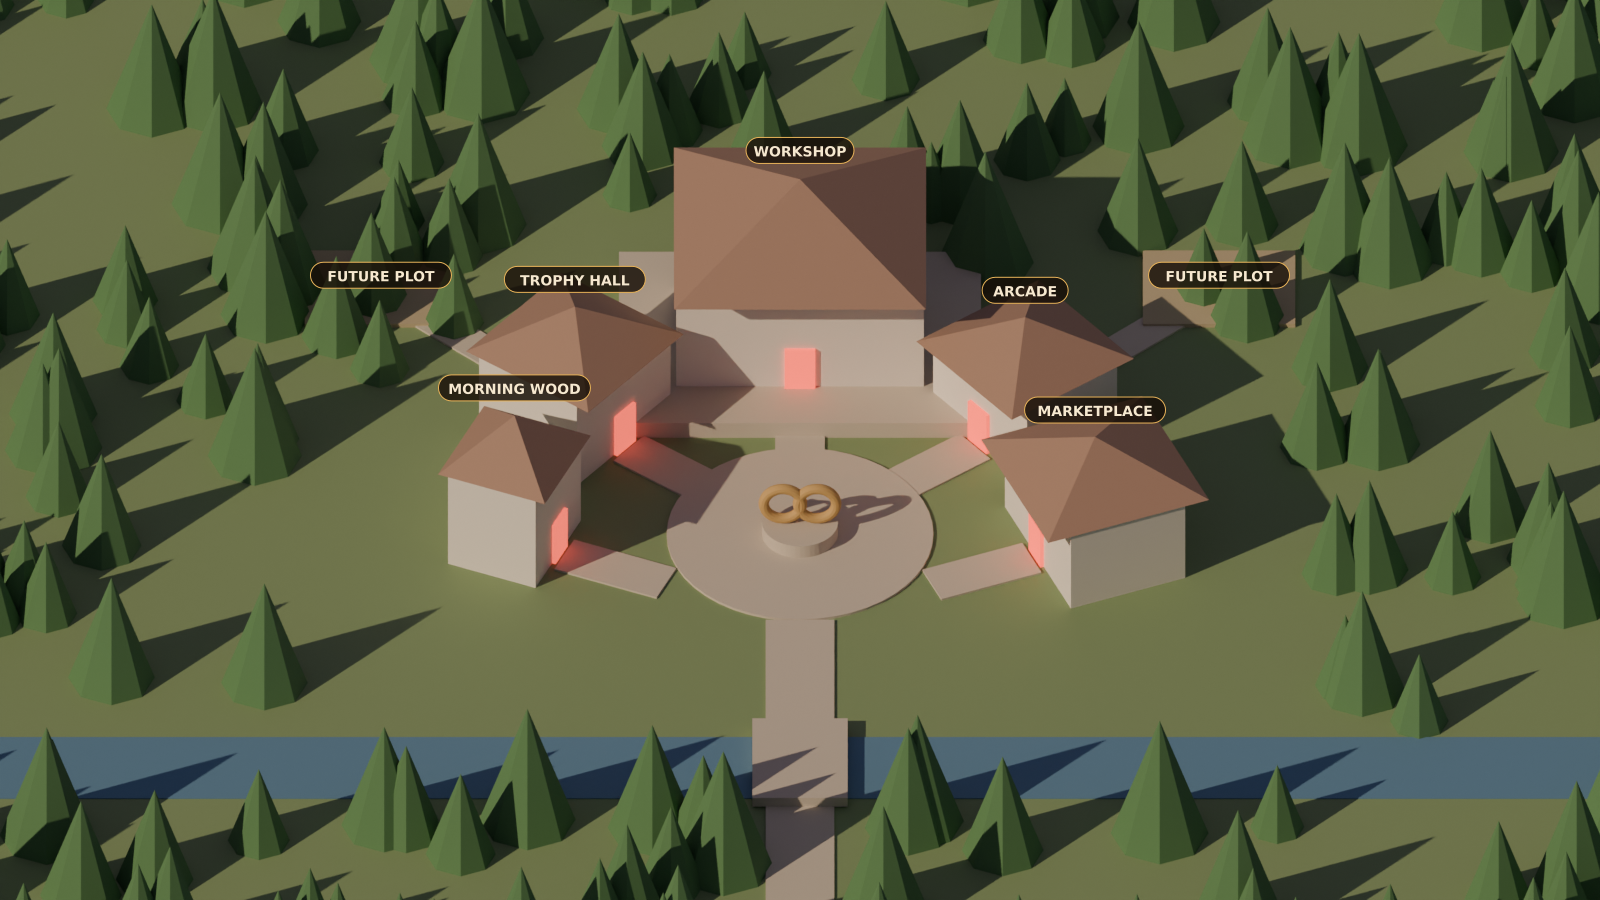
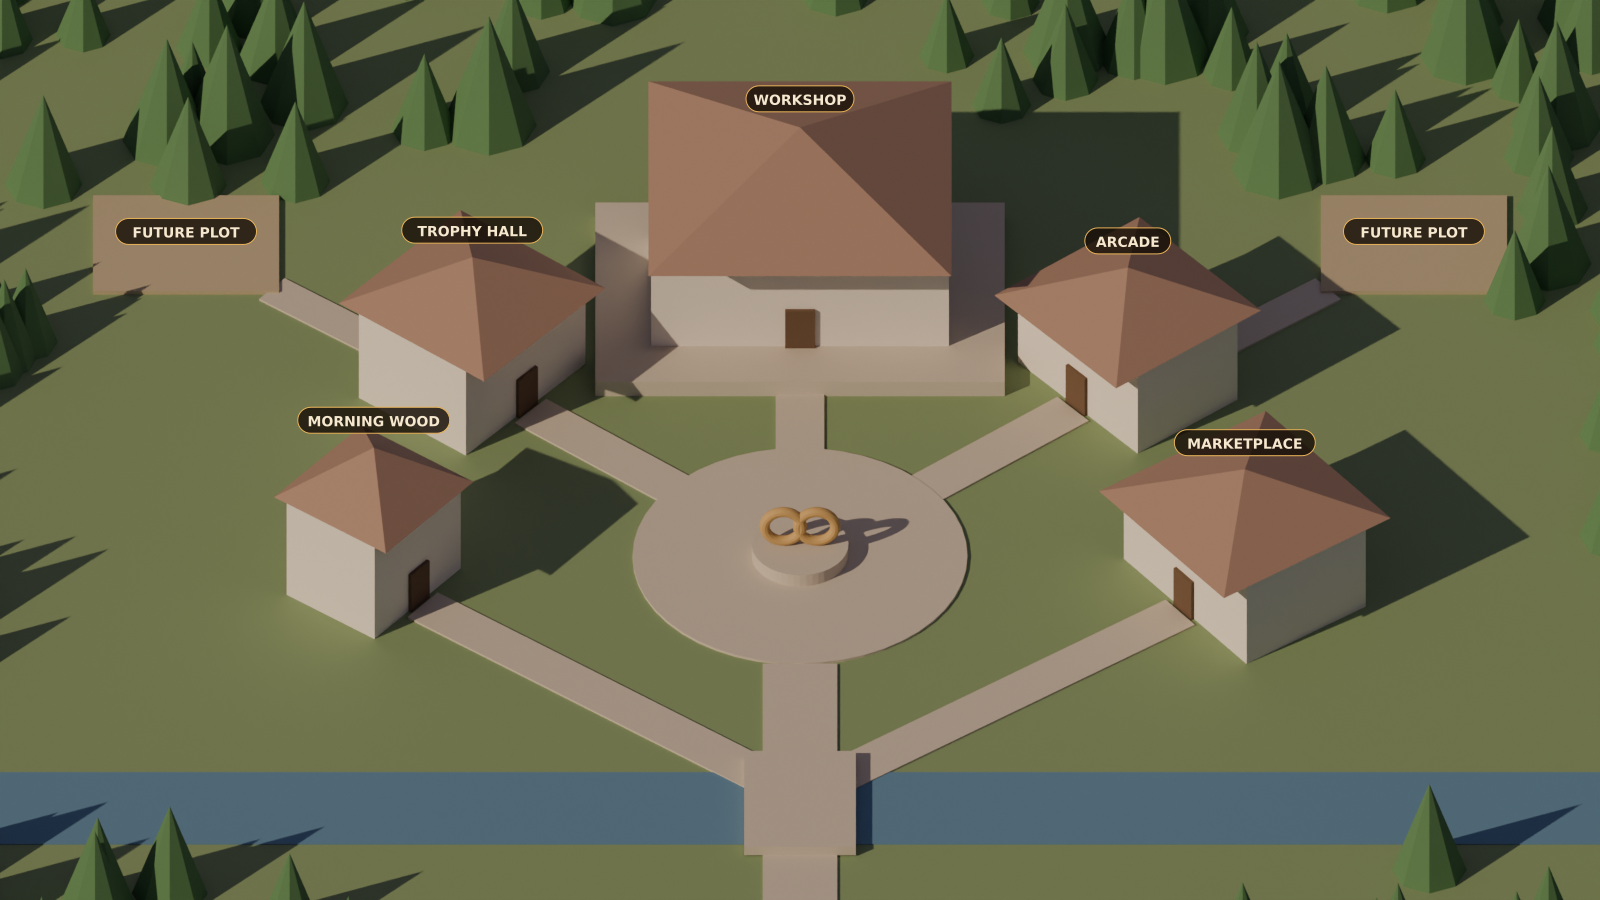
Village: approved layout (buildings fill the screen, river and bridge at the bottom), guide renders for the style frame
Claude-Session: https://claude.ai/code/session_01LEzX9WUx8sWcSwwRyLeaEz

diff --git a/web/art/factory/village/blockout/village.py b/web/art/factory/village/blockout/village.py
@@ -10,7 +10,7 @@ def mat(name, rgb, emit=0.0):
     if emit: b.inputs['Emission Color'].default_value = (*rgb, 1); b.inputs['Emission Strength'].default_value = emit
     return m
 M = dict(ground=mat('ground', (0.20, 0.30, 0.14)), stone=mat('stone', (0.55, 0.50, 0.42)), bldg=mat('bldg', (0.78, 0.74, 0.68)),
-         roof=mat('roof', (0.35, 0.22, 0.16)), door=mat('door', (0.9, 0.08, 0.05), 2.0), water=mat('water', (0.10, 0.22, 0.35)),
+         roof=mat('roof', (0.35, 0.22, 0.16)), door=mat('door', (0.9, 0.08, 0.05), 2.0) if '--red' in sys.argv else mat('door', (0.12, 0.07, 0.04)), water=mat('water', (0.10, 0.22, 0.35)),
          tree=mat('tree', (0.08, 0.20, 0.08)), plot=mat('plot', (0.45, 0.38, 0.25)), bronze=mat('bronze', (0.55, 0.35, 0.12)), text=mat('text', (1, 0.95, 0.8), 3.0))
 def put(o, m): o.data.materials.append(m); return o
 def box(x, y, z, sx, sy, sz, m, rot=0):
@@ -23,8 +23,8 @@ def label(t, x, y, z, size=1.4):
 
 # ground, plaza, sculpture
 box(0, 0, -0.2, 220, 220, 0.2, M['ground'])
-cyl(0, 0, 7, 0.15, M['stone'])
-cyl(0, 0, 2, 0.8, M['stone'], z=0.15)
+cyl(0, 0, 9, 0.15, M['stone'])
+cyl(0, 0, 2.6, 0.8, M['stone'], z=0.15)
 bpy.ops.mesh.primitive_torus_add(major_radius=1.0, minor_radius=0.28, location=(-0.9, 0, 2.2), rotation=(math.radians(90), 0, 0)); put(bpy.context.object, M['bronze'])
 bpy.ops.mesh.primitive_torus_add(major_radius=1.0, minor_radius=0.28, location=(0.9, 0, 2.2), rotation=(math.radians(90), 0, 0)); put(bpy.context.object, M['bronze'])
 
@@ -33,12 +33,12 @@ def path(a, b, w=2.6):
     box((a.x + b.x) / 2, (a.y + b.y) / 2, 0, w, d.length, 0.12, M['stone'], rot=math.atan2(d.y, d.x) - math.pi / 2)
 
 # buildings: (name, angle from +y around the plaza (deg), distance, width, depth, height); each turned to face the plaza
-B = [('WORKSHOP', 0, 15, 13, 8, 7.5), ('ARCADE', 52, 15, 8, 6, 5), ('TROPHY HALL', -52, 15, 8, 6.5, 5.5),
-     ('MARKETPLACE', 92, 15.5, 9, 6.5, 5), ('MORNING WOOD', -92, 15, 6, 5, 6)]
+B = [('WORKSHOP', 0, 21, 16, 9, 8), ('ARCADE', 50, 23, 10, 7, 5.5), ('TROPHY HALL', -50, 23, 10, 7.5, 6),
+     ('MARKETPLACE', 95, 24, 11, 8, 5.5), ('MORNING WOOD', -95, 23, 7.5, 6, 6.5)]
 for name, ang, dist, w, d, h in B:
     a = math.radians(ang); cx, cy = dist * math.sin(a), dist * math.cos(a)
     # the side buildings face the front of the plaza (where the road comes in), so their doors turn toward the camera
-    tx, ty = (0, -7) if abs(ang) > 80 else (0, 0)
+    tx, ty = (0, -20) if abs(ang) > 80 else (0, 0)
     face = math.atan2(ty - cy, tx - cx)
     rot = face + math.pi / 2     # the box's -y face (its front) points at the plaza
     lift = 1.0 if name == 'WORKSHOP' else 0.0
@@ -50,26 +50,30 @@ for name, ang, dist, w, d, h in B:
     dx, dy = cx + fx * (d / 2 + 0.05), cy + fy * (d / 2 + 0.05)
     box(dx, dy, lift, 1.6, 0.3, 2.6, M['door'], rot=rot)
     # a path from the door to the plaza's edge
-    pc = Vector((tx, ty)) if abs(ang) > 80 else Vector((0, 0)); dv = (pc - Vector((dx, dy))); end = Vector((dx, dy)) + dv * max(0, (dv.length - 6.6) / dv.length) if pc.length == 0 else Vector((dx, dy)) + dv.normalized() * (Vector((dx, dy)).length - 6.6)
+    D = Vector((dx, dy))
+    if abs(ang) > 80:  # side buildings: their path runs to the main road (x = +-2)
+        u = (Vector((tx, ty)) - D).normalized(); t = (math.copysign(2.0, D.x) - D.x) / u.x; end = D + u * t
+    else:              # the rest: to the plaza's edge
+        end = D + (Vector((0, 0)) - D).normalized() * (D.length - 8.6)
     path((dx + fx * 0.3, dy + fy * 0.3), (end.x, end.y))
     label(name, cx, cy, lift + h * 1.5 + 1.5)
 
 # expansion plots up the hill (they face the plaza too)
-for x, y in [(-22, 20), (22, 20)]:
-    box(x, y, 0, 8, 6, 0.25, M['plot']); label('FUTURE PLOT', x, y, 1.0)
-    path((x * 0.62, y * 0.62), (x * 0.9, y * 0.9), 2)
+for x, y in [(-33, 26), (33, 26)]:
+    box(x, y, 0, 10, 8, 0.25, M['plot']); label('FUTURE PLOT', x, y, 1.0)
+    path((x * 0.62, y * 0.62), (x * 0.86, y * 0.86), 2.2)
 
 # main road, stream, bridge
-path((0, -7), (0, -30), 3.6)
-box(0, -19, -0.05, 220, 5, 0.1, M['water'])
-box(0, -19, 0.1, 5, 6.5, 0.6, M['stone'])
+path((0, -9), (0, -60), 4)
+box(0, -21, -0.05, 220, 6, 0.1, M['water'])
+box(0, -21, 0.1, 6, 8, 0.6, M['stone'])
 
 # forest at the edges only (never in front of a door or path)
 random.seed(4)
 for _ in range(700):
     x, y = random.uniform(-70, 70), random.uniform(-80, 75)
     r = math.hypot(x, y * 1.15)
-    if r < 27 or abs(y + 19) < 3.5 or (abs(x) < 4 and y < -6): continue
+    if r < 44 or abs(y + 21) < 4.5 or (abs(x) < 5 and y < -9): continue
     s = random.uniform(1.4, 2.6)
     bpy.ops.mesh.primitive_cone_add(vertices=8, radius1=s, depth=s * 3, location=(x, y, s * 1.5)); put(bpy.context.object, M['tree'])
 
@@ -94,7 +98,11 @@ def shot(name, w, h, scale, ty):
     bpy.context.view_layer.update()
     pts = [{'t': t, 'x': world_to_camera_view(S, cam, Vector((x, y, z))).x * w, 'y': (1 - world_to_camera_view(S, cam, Vector((x, y, z))).y) * h} for t, x, y, z in LABELS]
     json.dump(pts, open(f'{OUT}/{name}.json', 'w'))
-shot('plan-desktop', 1600, 900, 84, 7)
-shot('plan-phone', 720, 1280, 72, 1)
+if '--guide' in sys.argv:
+    S.cycles.samples = 48
+    shot('guide-red' if '--red' in sys.argv else 'guide-clean', 1536, 1024, 82, 8)
+else:
+    shot('plan-desktop', 1600, 900, 86, 9)
+    pass  # phone later
 bpy.ops.wm.save_as_mainfile(filepath=f'{OUT}/village-blockout.blend')
 print('done')

diff --git a/docs/village-plan.md b/docs/village-plan.md
@@ -29,7 +29,9 @@ of the main road, everything else facing the middle.
 - **Two future plots** up the hill behind Trophy Hall and Arcade, drawn as dressed construction sites (scaffolding,
   crates), not "coming soon" signs. A later district can go across the stream with a second footbridge.
 - **Sizes by importance:** Workshop 1.0, Marketplace 0.65, Arcade and Trophy Hall 0.6, Morning Wood 0.45.
-- **Forest only at the edges,** as a frame. The village fills the picture.
+- **The village fills the screen.** The river and the bridge into town run along the bottom; you cross and the road
+  splits three ways (Morning Wood, the plaza and Workshop, the Marketplace). Scenery is minimal: a band of trees along
+  the top and a few at the corners. Approved by the owner (the render above).
 
 Door rules for this camera (from now on, for every building):
 1. Doors go only on walls that face the camera or the side.
